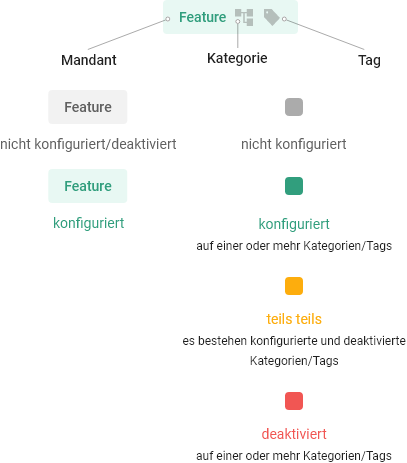
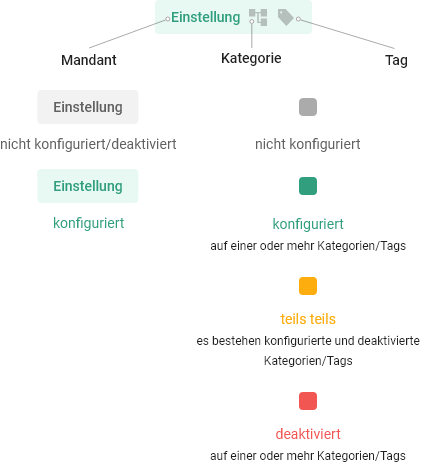
west-1354 add the separation of features in ClientCard, in order to show the universal features and the normal ones

diff --git a/components/ClientCard.tsx b/components/ClientCard.tsx
@@ -5,14 +5,15 @@ import Fade from "@mui/material/Fade";
 import IconButton from "@mui/material/IconButton";
 import CategoryIcon from "@mui/icons-material/AccountTree";
 import TagIcon from "@mui/icons-material/LocalOffer";
-import {useTheme} from "@mui/material/styles";
+import Divider from "@mui/material/Divider";
+import {styled, useTheme} from "@mui/material/styles";
 import {Theme} from "@mui/system";
 import {useInView} from "react-intersection-observer";
 import NextLink from "next/link";
 
 // import typescript Interfaces
 import {Feature} from "../types/api.types";
-import {ClientCardProps} from "../types/componentProps.types";
+import {ClientCardProps, IDDividerProps} from "../types/componentProps.types";
 import {useRouter} from "next/router";
 
 /**
@@ -46,9 +47,29 @@ function getButtonColorByStatus(status:string, theme:Theme) {
     case "DISABLED":
     case "NONE":
         return {bgColor: theme.palette.neutral.light, color: theme.palette.neutral.main};
-    default: return {bgColor: theme.palette.neutral.light, color: theme.palette.neutral.main};
+    default:
+        return {bgColor: theme.palette.neutral.light, color: theme.palette.neutral.main};
     }
 }
+
+const IDDivider = styled(Divider, {
+    shouldForwardProp: (prop) => prop !== "marginTop",
+})<IDDividerProps>(({theme, marginTop}) => ({
+    "fontSize": theme.typography.body2.fontSize,
+    "color": theme.palette.secondary.light,
+    "marginTop": marginTop || theme.spacing(2),
+    "&:before": {
+        "display": "none",
+    },
+    "&:after": {
+        "alignSelf": "normal",
+        "marginTop": "13px",
+        "width": "45%",
+    },
+    "& .MuiDivider-wrapper": {
+        "paddingLeft": 0,
+    },
+}));
 
 /**
  * CliendCard component. It accepts 3 parameters:
@@ -58,7 +79,8 @@ function getButtonColorByStatus(status:string, theme:Theme) {
  */
 function ClientCard({
     client,
-    showSelectedFeatures}:ClientCardProps) {
+    showSelectedFeatures,
+}: ClientCardProps) {
     const theme = useTheme();
 
     /* We use react-intersection-observer in order to perform a lazy-rendering of the Features
@@ -82,6 +104,46 @@ function ClientCard({
         setHover(false);
     };
 
+    const universalFeaturesMap = showSelectedFeatures(client.features, true);
+    const featuresMap = showSelectedFeatures(client.features);
+
+    const getFeatureContent = (feature: Feature, index: number) => {
+        // set background color of the button according to feature client status
+        const clientColor = getButtonColorByStatus(feature.status.client, theme).bgColor;
+
+        return <div data-testid="feature" key={index}>
+            {inView && <NextLink
+                passHref
+                href={{
+                    pathname: `/feature/${client.id}/${feature.key}`,
+                    /* pass the current query params to the next page
+                                            (filteredClients and filteredFeatures, if present) */
+                    query: router && router.query,
+                }}
+                style={{"textDecoration": "none"}}
+            >
+                <Fade in>
+                    <IconButton className="iconStatus"
+                        style={{
+                            "color": getButtonColorByStatus(feature.status.client, theme).color,
+                            "backgroundColor": hover ? alpha(clientColor, 0.7) : clientColor,
+                        }}
+                        onMouseEnter={handleMouseEnter}
+                        onMouseLeave={handleMouseLeave}
+                    >
+                        <Typography variant="subtitle2" lineHeight={1}>
+                            {feature.name}
+                        </Typography>
+                        <CategoryIcon fontSize="small"
+                            color={getIconColorByStatus(feature.status.category)}/>
+                        <TagIcon fontSize="small"
+                            color={getIconColorByStatus(feature.status.tag)}/>
+                    </IconButton>
+                </Fade>
+            </NextLink>}
+        </div>;
+    };
+
     return (
         <Card
             data-testid={client.id}
@@ -94,49 +156,27 @@ function ClientCard({
         >
             <CardContent>
                 <Typography variant="subtitle1"
-                    color="secondary.light"
                     sx={{display: "flex", alignItems: "center", gap: theme.spacing(1)}}>
                     <Typography fontSize="18px" fontWeight="medium">
                         {client.name}
                     </Typography>
-                    <Typography>|</Typography>
-                    <Typography>{client.id}</Typography>
+                    <Typography color="secondary.light">| {client.id}</Typography>
                 </Typography>
+                <IDDivider textAlign="left">Allgemein</IDDivider>
                 <Box sx={{display: "flex", flexWrap: "wrap"}}>
-                    {showSelectedFeatures(client.features).map((feature:Feature, index:number) => {
-                        // set background color of the button according to feature client status
-                        const clientColor = getButtonColorByStatus(feature.status.client, theme).bgColor;
-
-                        return <div data-testid="feature" key={index}>
-                            { /* show a featureButton only if it is inside the viewport */
-                                inView && <NextLink
-                                    passHref
-                                    href={{
-                                        pathname: `/feature/${client.id}/${feature.key}`,
-                                        /* pass the current query params to the next page
-                                        (filteredClients and filteredFeatures, if present) */
-                                        query: router && router.query,
-                                    }}
-                                    style={{"textDecoration": "none"}}
-                                >
-                                    <Fade in>
-                                        <IconButton className="iconStatus"
-                                            style={{
-                                                "color": getButtonColorByStatus(feature.status.client, theme).color,
-                                                "backgroundColor": hover ? alpha(clientColor, 0.7) : clientColor,
-                                            }}
-                                            onMouseEnter={handleMouseEnter}
-                                            onMouseLeave={handleMouseLeave}
-                                        >
-                                            <Typography variant="subtitle2" lineHeight={1}>{feature.name}</Typography>
-                                            <CategoryIcon fontSize="small"
-                                                color={getIconColorByStatus(feature.status.category)}/>
-                                            <TagIcon fontSize="small" color={getIconColorByStatus(feature.status.tag)}/>
-                                        </IconButton>
-                                    </Fade>
-                                </NextLink>}
-                        </div>;
-                    })}
+                    {
+                        universalFeaturesMap && universalFeaturesMap.map((feature: Feature, index: number) =>
+                            getFeatureContent(feature, index)
+                        )
+                    }
+                </Box>
+                <IDDivider textAlign="left" marginTop={theme.spacing(3)}>Features</IDDivider>
+                <Box sx={{display: "flex", flexWrap: "wrap"}}>
+                    {
+                        featuresMap && featuresMap.map((feature: Feature, index: number) =>
+                            getFeatureContent(feature, index)
+                        )
+                    }
                 </Box>
             </CardContent>
         </Card>

diff --git a/components/IDInfoButton.tsx b/components/IDInfoButton.tsx
@@ -178,8 +178,8 @@ function IDInfoButton({align}:IDInfoButtonProps) {
                 <Paper elevation={0} className="MuiPaper-content"
                     sx={{width: 509, maxWidth: "100%", p: theme.spacing(3), pt: 0}}>
                     <Typography fontSize={theme.typography.pxToRem(14)} sx={{marginBottom: theme.spacing(4)}}>
-                        <strong>Konfigurationen</strong> können auf&nbsp;
-                        <strong>Mandanten, Kategorie</strong> oder <strong>Tag-Ebene</strong> vorgenommen werden.
+                        <strong>Konfigurationen</strong> können auf
+                        <strong>&nbsp;Mandanten, Kategorie</strong> oder <strong>Tag-Ebene</strong> vorgenommen werden.
                     </Typography>
 
                     <Image alt="Farben und Icons" src={colorsDiagram} />
@@ -193,10 +193,10 @@ function IDInfoButton({align}:IDInfoButtonProps) {
                 <Paper elevation={0} className="MuiPaper-content"
                     sx={{width: 509, maxWidth: "100%", p: theme.spacing(3), pt: 0}}>
                     <Typography fontSize={theme.typography.pxToRem(14)} sx={{marginBottom: theme.spacing(4)}}>
-                        Konfigurationen werden <strong>direkt</strong> auf&nbsp;
-                        <strong>Mandant, Kategorie</strong> oder <strong>Tag</strong> gesetzt.&nbsp;
-                        Die <strong>Priorität</strong> der Ausspielung geht&nbsp;
-                        <strong>von Tag</strong> über <strong>Kategorie</strong> zu <strong>Mandant</strong>.&nbsp;
+                        Konfigurationen werden <strong>direkt</strong> auf
+                        <strong>&nbsp;Mandant, Kategorie</strong> oder <strong>Tag</strong> gesetzt.
+                        Die <strong>Priorität</strong> der Ausspielung geht
+                        <strong>&nbsp;von Tag</strong> über <strong>Kategorie</strong> zu <strong>Mandant</strong>.
                         Dabei wird mit <strong>Überschreiben</strong> und <strong>Übernehmen</strong> gearbeitet.
                     </Typography>
 
@@ -211,11 +211,11 @@ function IDInfoButton({align}:IDInfoButtonProps) {
                     </IDAlert>
 
                     <Typography fontSize={theme.typography.pxToRem(14)} sx={{marginBottom: theme.spacing(3)}}>
-                        In der <strong>Übersicht der Mandanten</strong> sieht man einzig, <strong>wie</strong>&nbsp;
-                        das <strong>Feature</strong> allgemein <strong>konfiguriert</strong> ist.&nbsp;
-                        Möchte man herausfinden, <strong>welche Konfiguration</strong>&nbsp;
-                        auf einem <strong>Artikel</strong> speziell <strong>ausgespielt</strong> wird,&nbsp;
-                        so muss man sich die <strong>gesetzten Tags</strong>,&nbsp;
+                        In der <strong>Übersicht der Mandanten</strong> sieht man einzig, <strong>wie</strong>
+                        &nbsp;allgemein <strong>konfiguriert</strong> ist.
+                        Möchte man herausfinden, <strong>welche Konfiguration</strong>
+                        &nbsp;auf einem <strong>Artikel</strong> speziell <strong>ausgespielt</strong> wird,
+                        so muss man sich die <strong>gesetzten Tags</strong>,
                         die jeweilige <strong>Kategorie</strong> und den <strong>Mandanten</strong> ansehen.
                         <br/><br/>
                         <strong>Artikel:</strong> &quot;Manuel Neuer kauft eine neues Haus&quot;

diff --git a/pages/_app.tsx b/pages/_app.tsx
@@ -71,10 +71,21 @@ function TemplatePage({Component, pageProps}:AppProps) {
      * it shows the Features that have been selected by the user
      * (e.g. checks if "traffective" and "aktiviert" have been selected and shows the result)
      * @param {Array<Feature>} featuresPerClient
+     * @param {boolean} showUniversalFeatures
      * @return {Array<Feature>}
      */
-    function showSelectedFeatures(featuresPerClient:Array<Feature>) {
-        const featuresFilteredPerStatus = showFeaturesPerStatus(featuresPerClient, featureStatus);
+    function showSelectedFeatures(featuresPerClient: Array<Feature>, showUniversalFeatures?: boolean) {
+        const universalFeatures = ["header", "footer"];
+        let featuresFilteredPerStatus = showFeaturesPerStatus(featuresPerClient, featureStatus);
+
+        // first of all, we check if the feature list belongs to Allgemein (universal) or Features
+        if (showUniversalFeatures) {
+            featuresFilteredPerStatus = featuresFilteredPerStatus
+                .filter((feat) => universalFeatures.includes(feat.key));
+        } else {
+            featuresFilteredPerStatus = featuresFilteredPerStatus
+                .filter((feat) => !universalFeatures.includes(feat.key));
+        }
 
         // if one or more features have been selected in the combobox...
         if (filteredFeatures.length > 0) {
@@ -83,7 +94,7 @@ function TemplatePage({Component, pageProps}:AppProps) {
                 1) they have been filtered through showFeaturesPerStatus
                 in order to show them according to the selected status (active, inactive or all)
                 2) are also present in filteredFeatures array. */
-                featuresFilteredPerStatus.filter((feat:Feature) =>
+                featuresFilteredPerStatus.filter((feat: Feature) =>
                     // for each feature we check if it is present in filteredFeatures array
                     filteredFeatures.some((filteredFeat) => filteredFeat.id === feat.id)
                 )

diff --git a/test/ClientCard.test.tsx b/test/ClientCard.test.tsx
@@ -54,8 +54,8 @@ describe("Parameterized test for ClientCard", () => {
                     showSelectedFeatures={() => []}/>
             </ThemeProvider>);
 
-            expect(screen.getByText(clientValue.name)).toBeInTheDocument();
-            expect(screen.getByText(clientValue.id)).toBeInTheDocument();
+            expect(screen.getByText(clientValue.name, {exact: false})).toBeInTheDocument();
+            expect(screen.getByText(clientValue.id, {exact: false})).toBeInTheDocument();
         }
     );
 
@@ -73,10 +73,10 @@ describe("Parameterized test for ClientCard", () => {
             const autocomplete = screen.getByTestId(clientMocked.id);
             // traffective -> feature client is ENABLED
             const traffective = within(autocomplete)
-                .getByText(clientMocked.features[0].name).parentElement as HTMLElement;
+                .getAllByText(clientMocked.features[0].name, {exact: false})[0].parentElement as HTMLElement;
             // inArticleReco -> feature client is DISABLED
             const inArticleReco = within(autocomplete)
-                .getByText(clientMocked.features[1].name).parentElement as HTMLElement;
+                .getAllByText(clientMocked.features[1].name, {exact: false})[0].parentElement as HTMLElement;
 
             expect(traffective).toHaveStyle({
                 "color": edidTheme.palette.success.main,
@@ -109,7 +109,7 @@ describe("Parameterized test for ClientCard", () => {
             const autocomplete = screen.getByTestId(clientMocked.id);
             // get first mocked feature -> traffective
             const traffective = within(autocomplete)
-                .getByText(clientMocked.features[0].name).closest("a") as HTMLElement;
+                .getAllByText(clientMocked.features[0].name)[0].closest("a") as HTMLElement;
             expect(traffective).toHaveAttribute(
                 "href",
                 // eslint-disable-next-line max-len

diff --git a/types/componentProps.types.ts b/types/componentProps.types.ts
@@ -2,6 +2,7 @@ import {Client, ClientOrFeature, Feature, FeaturesConfig} from "./api.types";
 import {ReactNode} from "react";
 import {AppBarProps} from "@mui/material/AppBar";
 import {GridProps} from "@mui/material/Grid";
+import {DividerProps} from "@mui/material";
 
 /*
 Interfaces for the Components
@@ -16,7 +17,7 @@ export interface HomeProps {
     setFilteredFeatures: (arg: Array<ClientOrFeature>) => void
     featureStatus: FeatSelectedStatus | Array<string>
     setFeatureStatus: (name: FeatSelectedStatus) => void
-    showSelectedFeatures: (featuresPerClient:Array<Feature>) => Array<Feature>
+    showSelectedFeatures: (featuresPerClient: Array<Feature>, showUniversalFeatures?: boolean) => Array<Feature>
     isLoading: boolean
     children?: ReactNode; // 👈 children prop type
 }
@@ -24,7 +25,7 @@ export interface HomeProps {
 export interface MainContentProps {
     clientsList: Array<Client>
     filteredClientsList: Array<Client>
-    showSelectedFeatures: (featuresPerClient:Array<Feature>) => Array<Feature>
+    showSelectedFeatures: (featuresPerClient: Array<Feature>, showUniversalFeatures?: boolean) => Array<Feature>
     isLoading: boolean
 }
 
@@ -49,7 +50,7 @@ export type IDComboSelectProps = {
 
 export interface ClientCardProps {
     client: Client
-    showSelectedFeatures: (featuresPerClient:Array<Feature>) => Array<Feature>
+    showSelectedFeatures: (featuresPerClient: Array<Feature>, showUniversalFeatures?: boolean) => Array<Feature>
 }
 
 export interface IDInfoButtonProps {
@@ -75,6 +76,10 @@ export interface IdToggleProps {
     config?: FeaturesConfig;
     featureKey: string;
     disabled?: boolean,
+}
+
+export interface IDDividerProps extends DividerProps {
+    marginTop?: string,
 }
 
 export enum FeatSelectedStatus {

diff --git a/test/MainContent.test.tsx b/test/MainContent.test.tsx
@@ -76,7 +76,7 @@ test("client color is dark gray when client feature is inactive", () => {
     // get the first rendered ClientCard Component
     const clientCard = screen.getByTestId(mockedClientListWithHasFeatures[0].id);
     // inArticleReco -> feature client is DISABLED
-    const disabledFeature = within(clientCard).getByText(/ECR In Article/).parentElement as HTMLElement;
+    const disabledFeature = within(clientCard).getAllByText(/ECR In Article/)[0].parentElement as HTMLElement;
     expect(disabledFeature).toHaveStyle({
         "color": edidTheme.palette.neutral.main,
         "backgroundColor": edidTheme.palette.neutral.light});
@@ -95,7 +95,7 @@ test("category icon color is green when category feature is active", () => {
     // get the first rendered ClientCard Component
     const clientCard = screen.getByTestId(mockedClientListWithHasFeatures[0].id);
     // traffective -> feature category is NONE, feature tag is DISABLED
-    const traffective = within(clientCard).getByText(/Traffective Ads/).parentElement as HTMLElement;
+    const traffective = within(clientCard).getAllByText(/Traffective Ads/)[0].parentElement as HTMLElement;
     // category icon - testid is automatically included by MUI
     const categoryIcon = within(traffective).getByTestId("AccountTreeIcon");
     // tag icon - testid is automatically included by MUI

diff --git a/components/Sidebar.tsx b/components/Sidebar.tsx
@@ -38,7 +38,7 @@ function Sidebar(
                 showId={true}/>
 
             <IDComboSelect values={featureList}
-                title="Feature"
+                title="Einstellung"
                 placeholder="z.B. AdDefend, CleverPush Anmelde-Widget"
                 filteredValues={filteredFeatures}
                 setFilteredValues={setFilteredFeatures}
